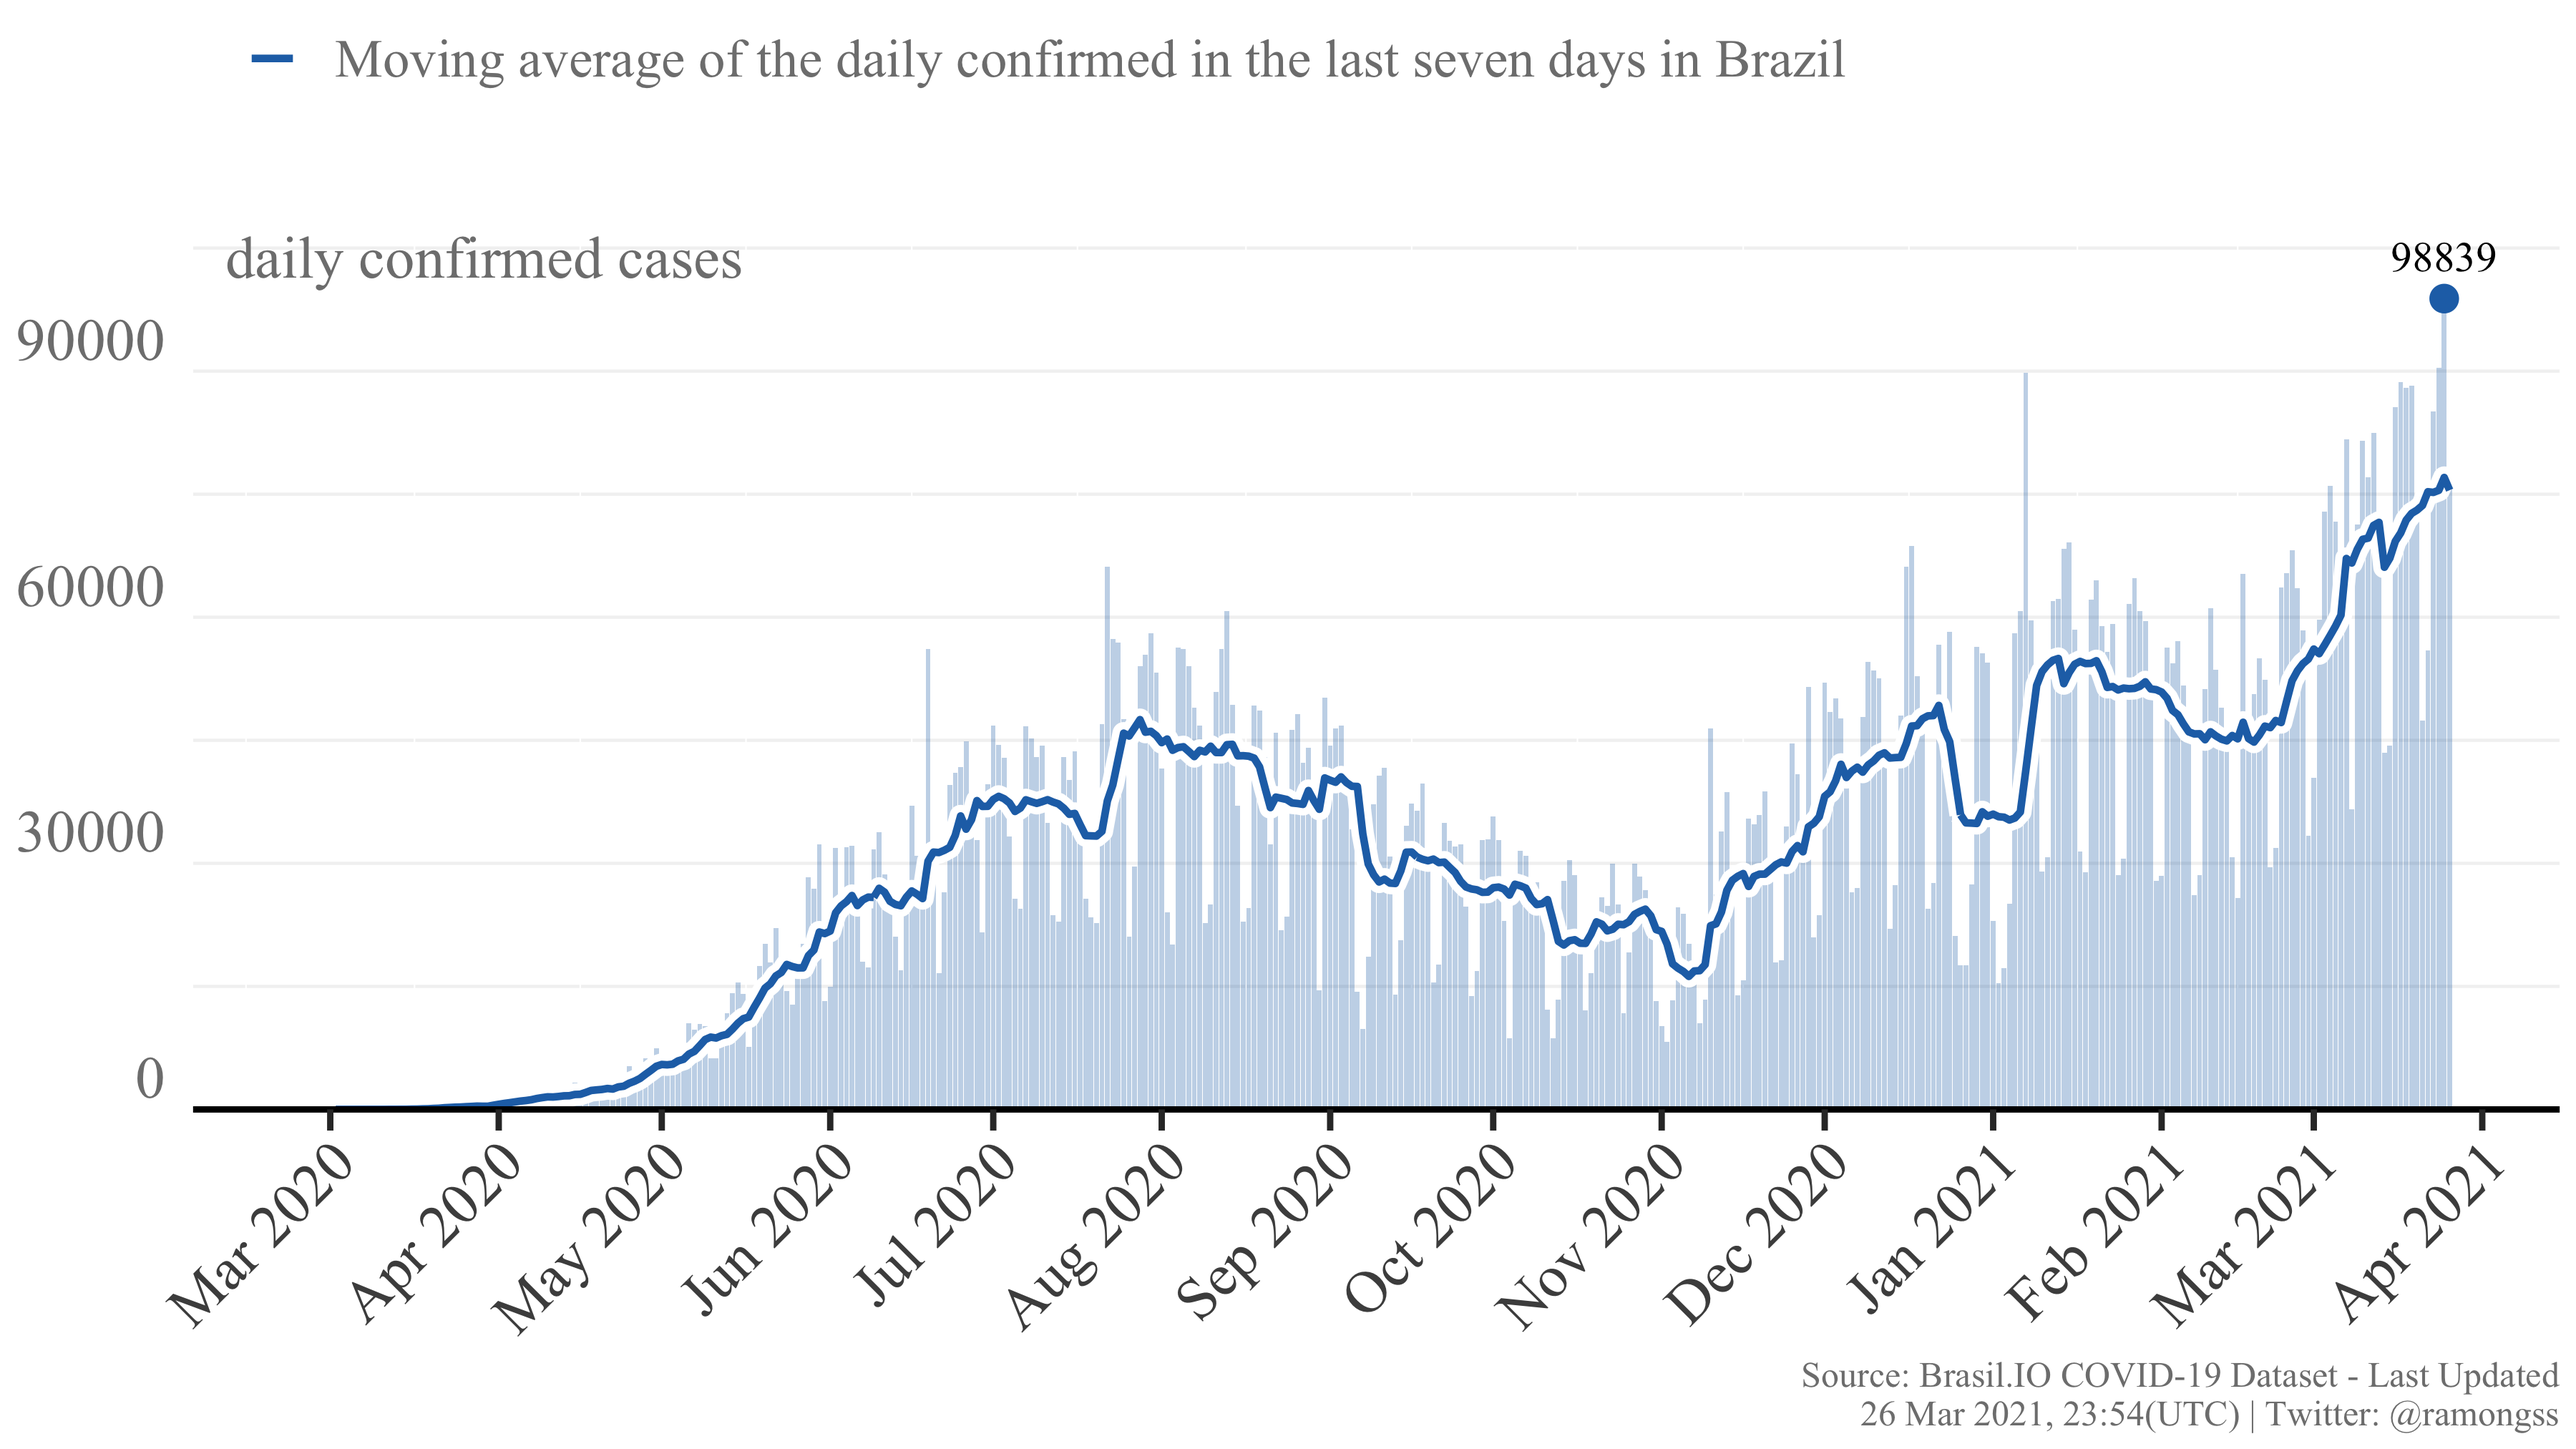
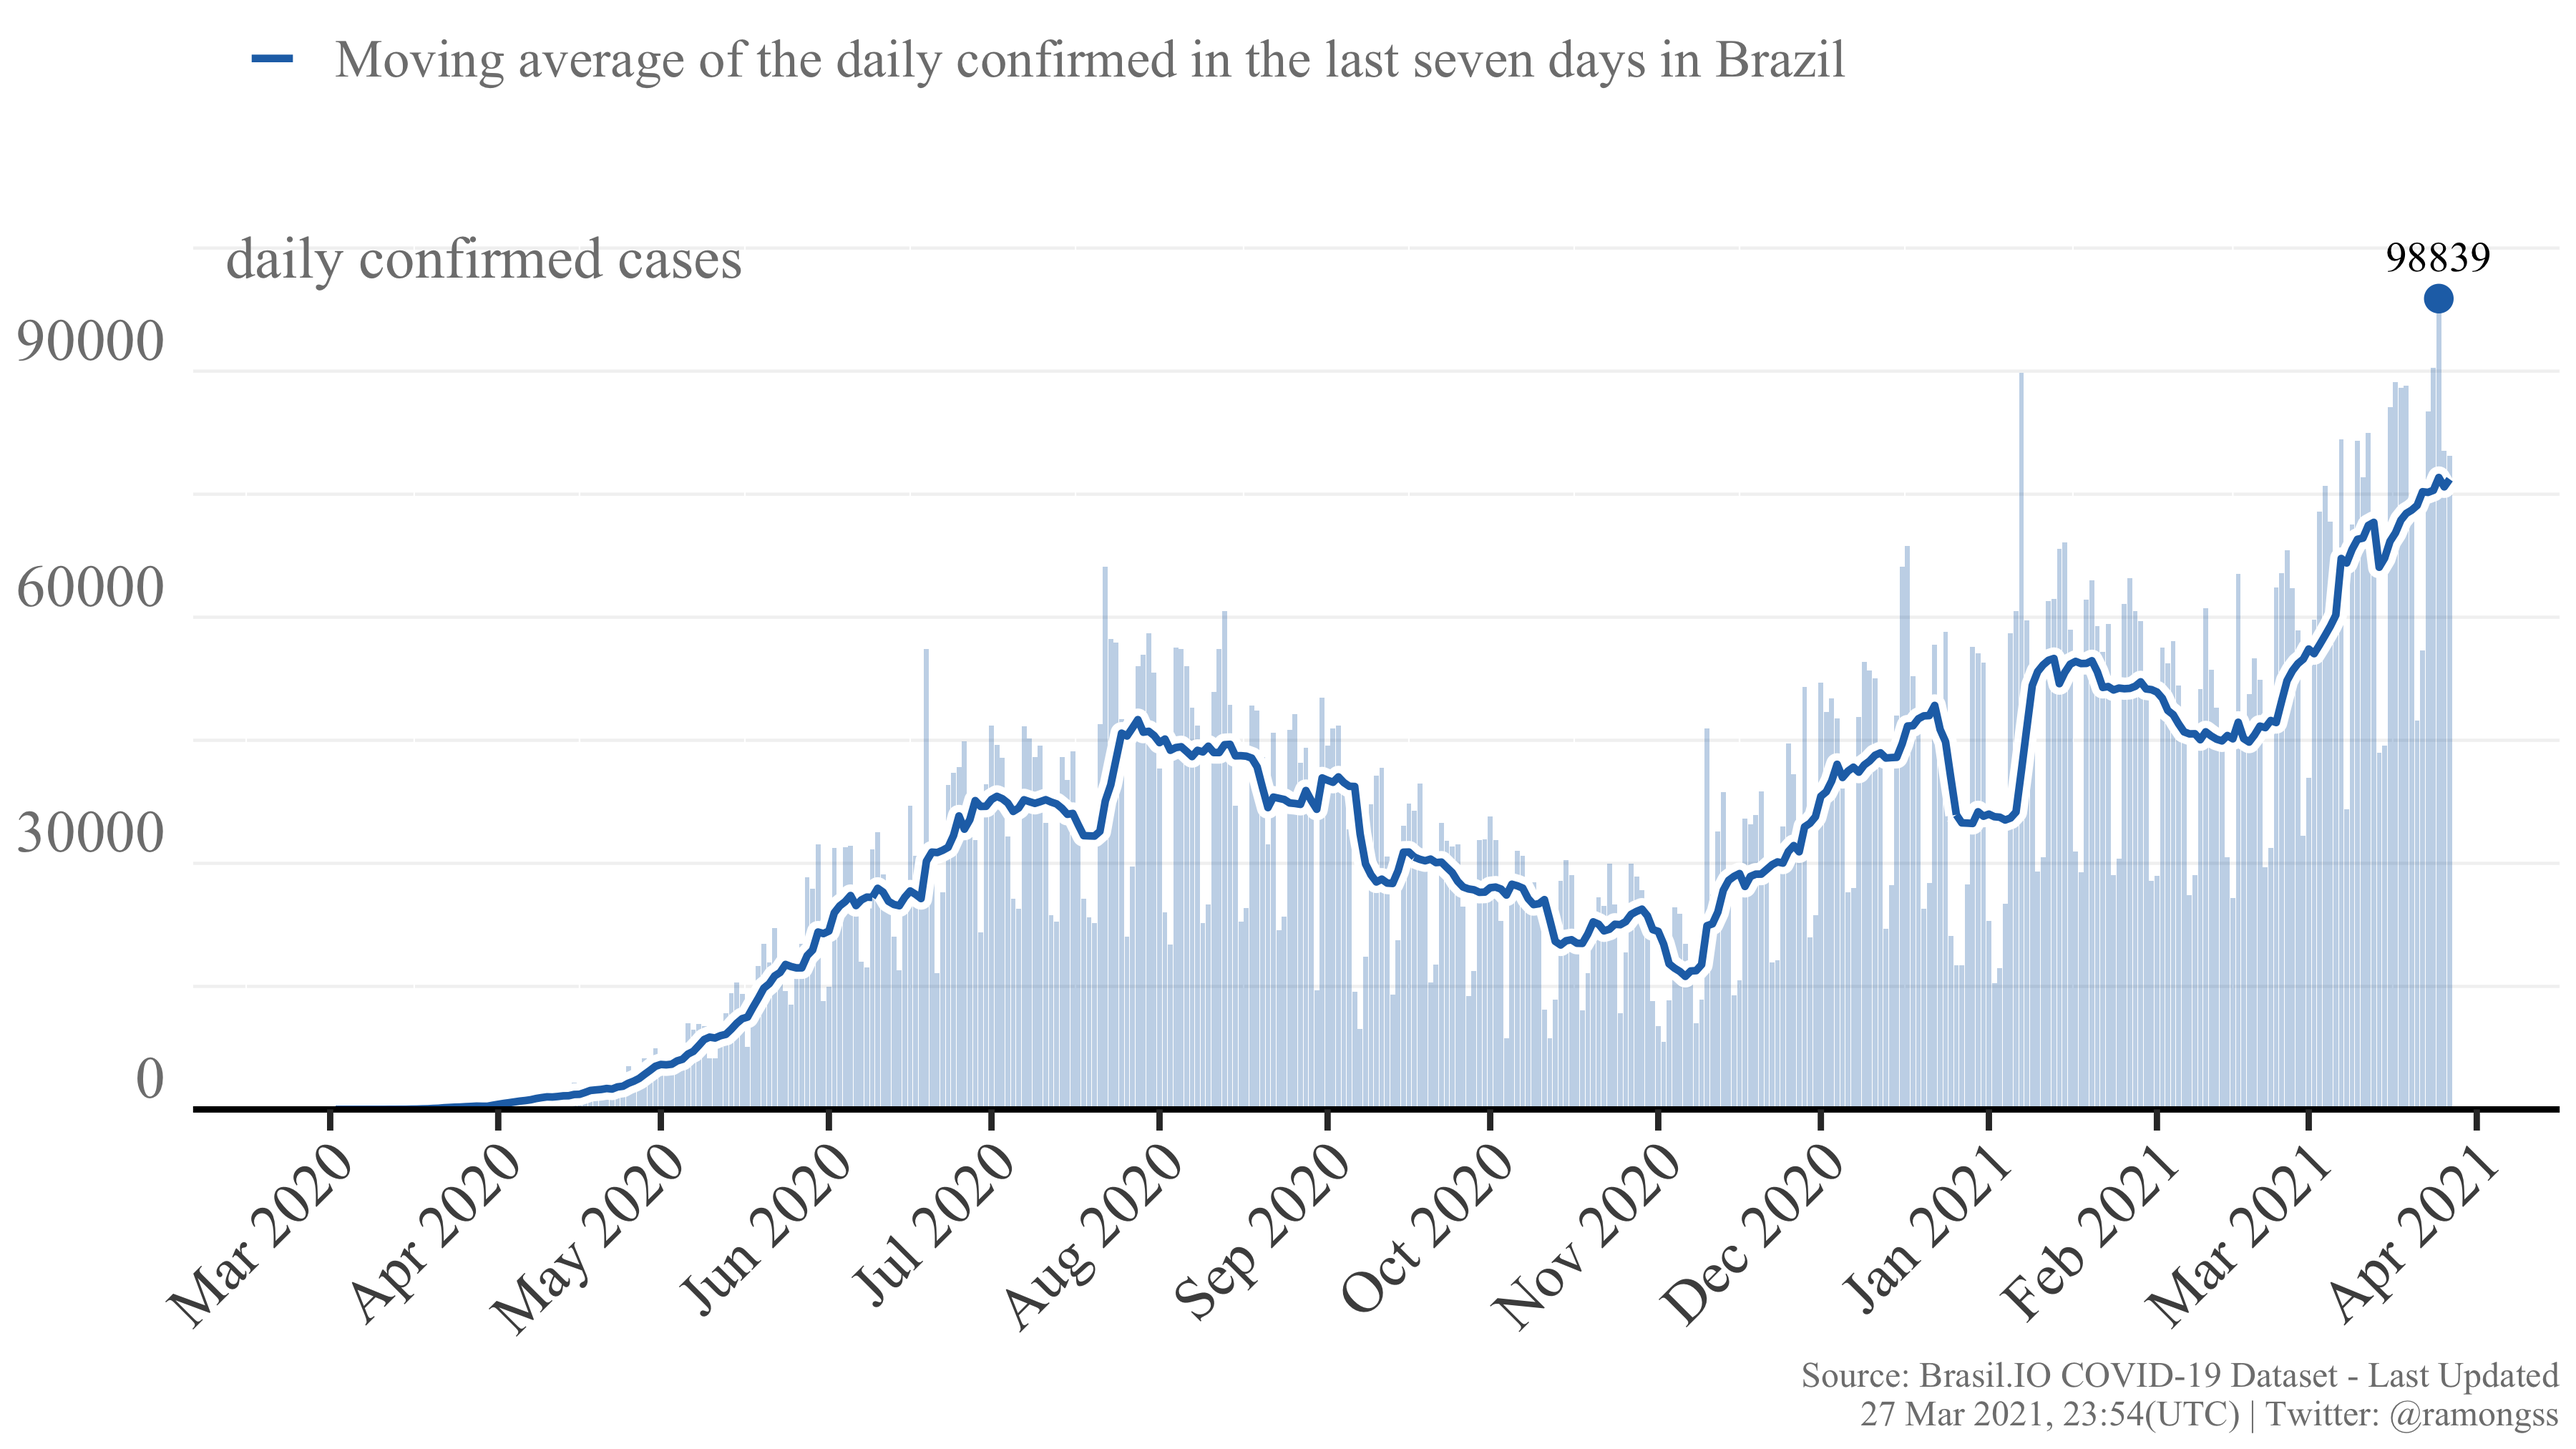
Re-build README.Rmd

diff --git a/README.md b/README.md
@@ -27,7 +27,7 @@ download_brasilio_table <- function(dataset = "covid19", table_name){
 
 ## COVID-19 Confirmed cases
 
-Currently, Brazil has a total of **12,414,070** confirmed cases at **26
+Currently, Brazil has a total of **12,496,581** confirmed cases at **27
 Mar, 2021**. The daily maximum incidence was **98,839** confirmed cases
 at **25 Mar, 2021**. Here follows the Figure showing the confirmed case
 incidence as the bars, and the line as the moving average of the last 7
@@ -37,8 +37,8 @@ days.
 
 ## COVID-19 Deaths
 
-Currently, Brazil has a total of **307,473** deaths at **26 Mar, 2021**.
-The daily maximum deaths incidence was **3,429** deaths at **26 Mar,
+Currently, Brazil has a total of **310,857** deaths at **27 Mar, 2021**.
+The daily maximum deaths incidence was **3,500** deaths at **26 Mar,
 2021**. Here follows the Figure showing the deaths incidence as the
 bars, and the line as the moving average of the last 7 days.
 
@@ -48,4 +48,4 @@ bars, and the line as the moving average of the last 7 days.
 
 This page is daily updated automatically using Github Actions.
 
-*Last update: 26 Mar 2021, 23:54 (UTC).*
+*Last update: 27 Mar 2021, 23:54 (UTC).*
